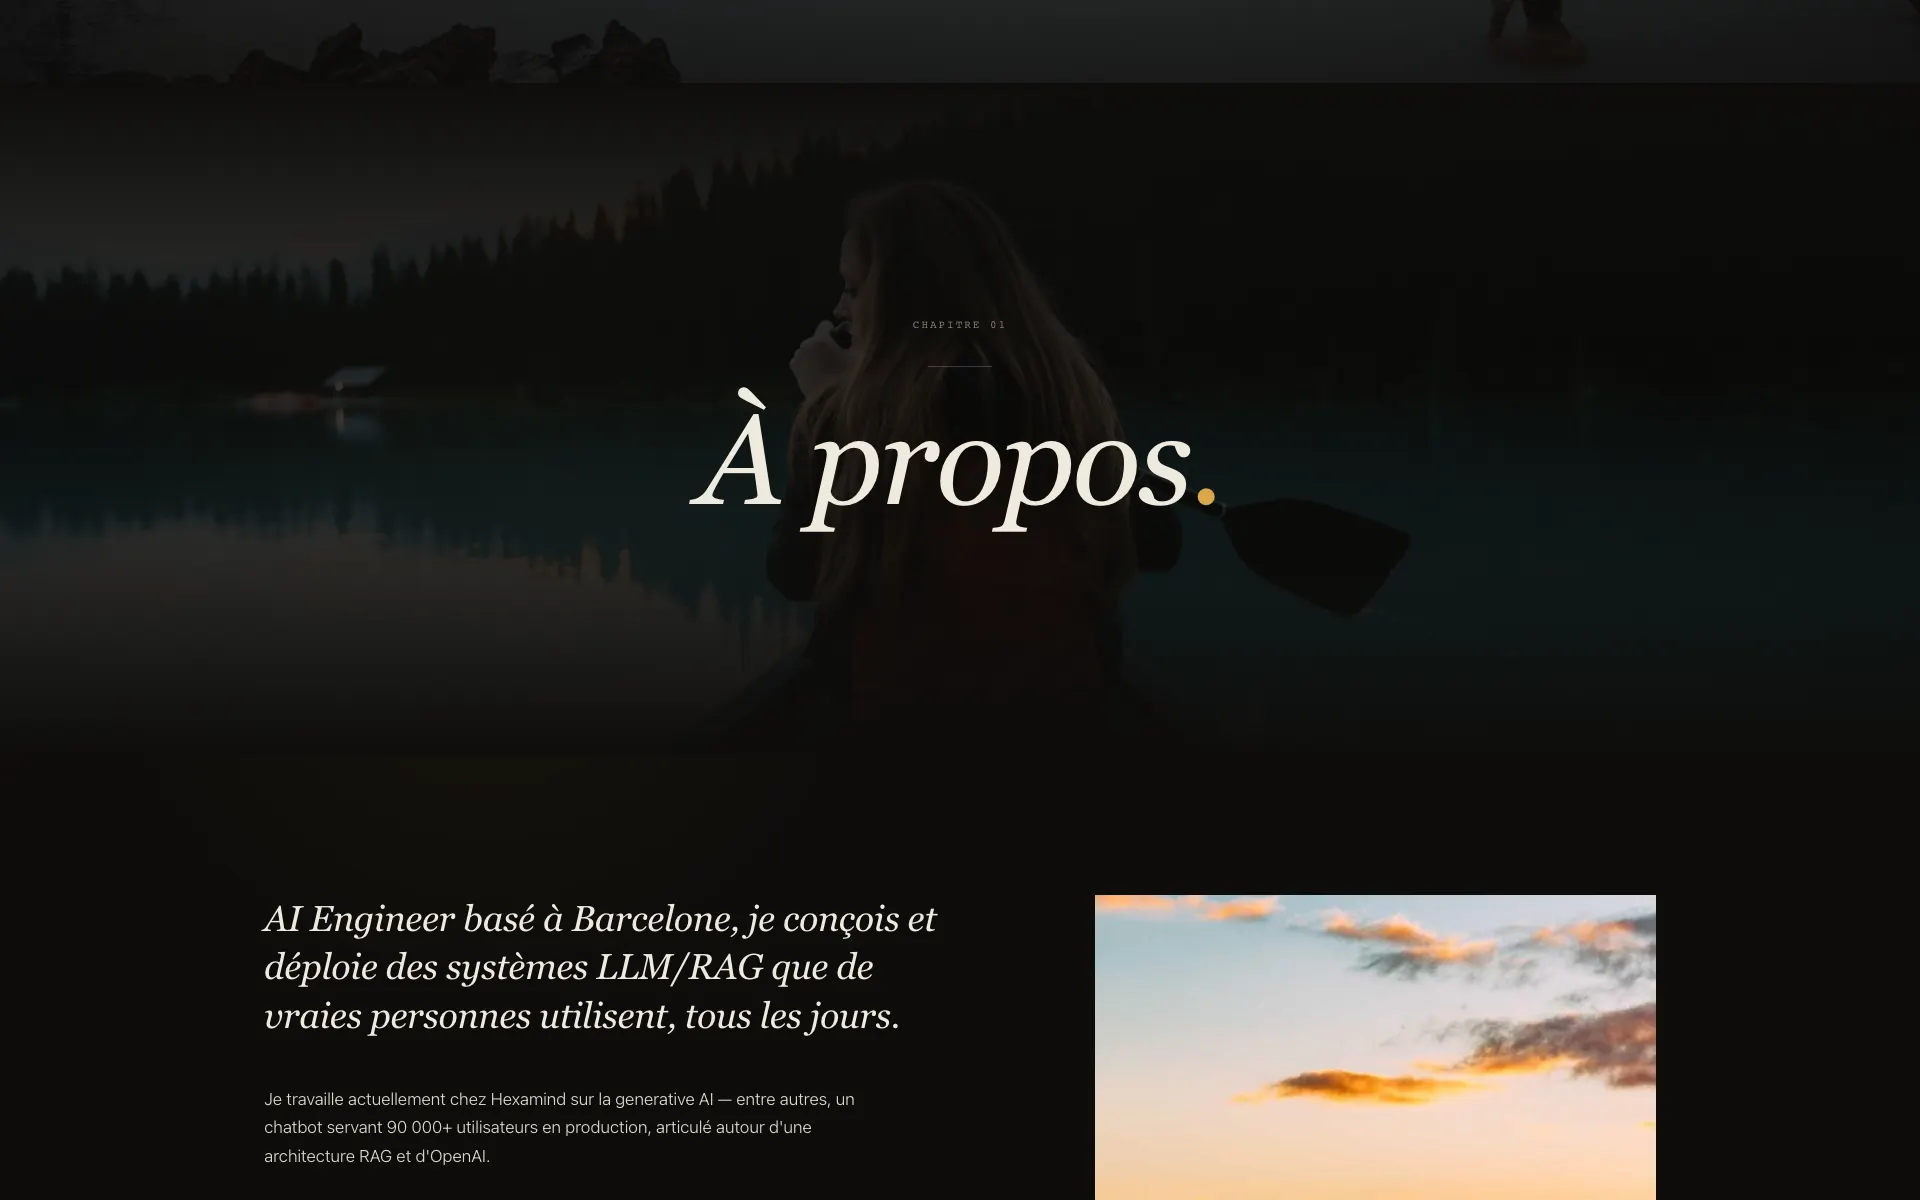
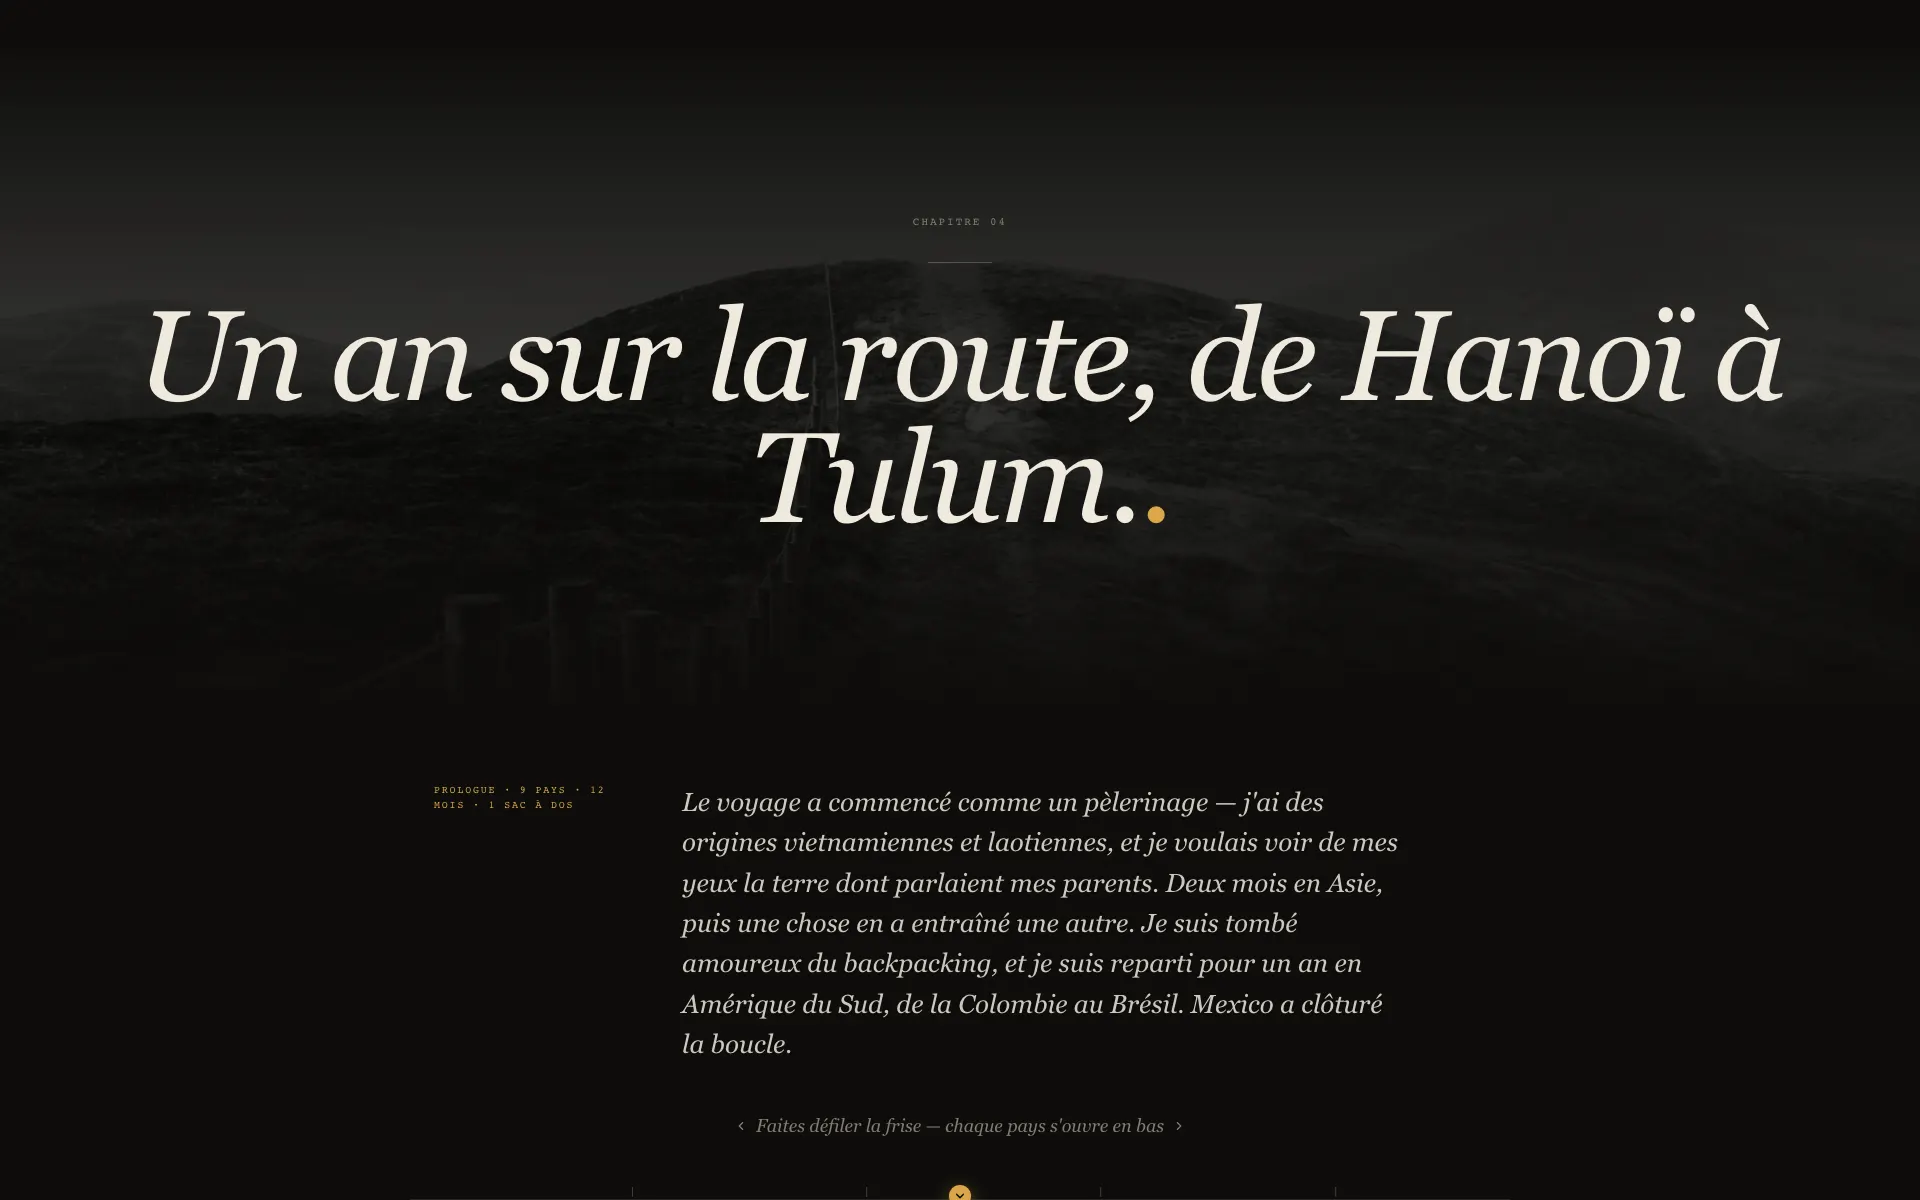
fix(chooser): hard-center curator panel + travel-section previews
- The curator now lives inside a position:fixed wrapper anchored to
  the viewport (translate(-50%,-50%)) while framer-motion only
  animates opacity/scale on the inner panel. This decouples the
  centering transform from the entrance animation so the panel is
  pixel-centered regardless of motion state.
- Capture script targets the #travels section in each variant, so the
  background previews now show the signature voyage frieze (Hanoï,
  Tulum, etc.) — letting the user actually compare the two visual
  languages instead of the bio.
- Stronger framing: gold-tinted border (rgba(217,166,72,.32)),
  four corner crosshairs (+ marks) and 72px gold hairline accents
  top and bottom. Clear "this is a framed selection" affordance.
- Inner shadow + larger drop shadow for more presence on the busy
  travel-photo backgrounds.

diff --git a/src/shared/components/Chooser.css b/src/shared/components/Chooser.css
@@ -168,51 +168,100 @@
   transform: translateX(-0.5px);
 }
 
-/* CURATOR — frosted glass panel, perfectly centered. */
-.chooser-curator {
-  position: absolute;
-  top: 42%;
+/* CURATOR — frosted glass panel, hard-centered to viewport.
+   Outer wrapper handles positioning; inner panel handles framing.
+   This keeps framer-motion's transform on the wrapper from clashing
+   with the centering transform. */
+.chooser-curator-wrap {
+  position: fixed;
+  top: 50%;
   left: 50%;
   transform: translate(-50%, -50%);
   z-index: 20;
   pointer-events: none;
+  width: min(92vw, 620px);
+  display: flex;
+  justify-content: center;
+}
+
+.chooser-curator {
+  position: relative;
+  width: 100%;
   display: flex;
   flex-direction: column;
   align-items: center;
   gap: 0.85rem;
-  width: min(92vw, 620px);
   text-align: center;
   color: #ffffff;
-  padding: 2.75rem 3rem 2.5rem;
-  background: rgba(12, 11, 10, 0.55);
-  backdrop-filter: blur(18px) saturate(130%);
-  -webkit-backdrop-filter: blur(18px) saturate(130%);
-  border: 1px solid rgba(255, 255, 255, 0.1);
-  border-radius: 2px;
+  padding: 3rem 3.25rem 2.75rem;
+  background: rgba(10, 9, 8, 0.62);
+  backdrop-filter: blur(20px) saturate(130%);
+  -webkit-backdrop-filter: blur(20px) saturate(130%);
+  border: 1px solid rgba(217, 166, 72, 0.32);
   box-shadow:
-    0 24px 60px -20px rgba(0, 0, 0, 0.6),
-    0 0 0 1px rgba(0, 0, 0, 0.3) inset;
+    0 30px 80px -24px rgba(0, 0, 0, 0.75),
+    0 0 0 1px rgba(255, 255, 255, 0.04) inset,
+    inset 0 0 60px rgba(0, 0, 0, 0.35);
 }
 
-/* Hairline accents — top and bottom thin gold lines for editorial weight. */
+/* Hairline gold accents — slim editorial flourishes top + bottom. */
 .chooser-curator::before,
 .chooser-curator::after {
   content: "";
   position: absolute;
   left: 50%;
   transform: translateX(-50%);
-  width: 64px;
+  width: 72px;
   height: 1px;
-  background: rgba(217, 166, 72, 0.5);
+  background: rgba(217, 166, 72, 0.7);
 }
 
 .chooser-curator::before {
-  top: 1.2rem;
+  top: 1.1rem;
 }
 
 .chooser-curator::after {
-  bottom: 1.2rem;
+  bottom: 1.1rem;
 }
+
+/* Decorative corner crosshairs — magazine-style frame markers. */
+.chooser-curator__corner {
+  position: absolute;
+  width: 18px;
+  height: 18px;
+  pointer-events: none;
+  color: rgba(217, 166, 72, 0.55);
+}
+
+.chooser-curator__corner::before,
+.chooser-curator__corner::after {
+  content: "";
+  position: absolute;
+  background: currentColor;
+}
+
+.chooser-curator__corner::before {
+  /* horizontal stroke */
+  top: 50%;
+  left: 0;
+  right: 0;
+  height: 1px;
+  transform: translateY(-0.5px);
+}
+
+.chooser-curator__corner::after {
+  /* vertical stroke */
+  top: 0;
+  bottom: 0;
+  left: 50%;
+  width: 1px;
+  transform: translateX(-0.5px);
+}
+
+.chooser-curator__corner--tl { top: -9px; left: -9px; }
+.chooser-curator__corner--tr { top: -9px; right: -9px; }
+.chooser-curator__corner--bl { bottom: -9px; left: -9px; }
+.chooser-curator__corner--br { bottom: -9px; right: -9px; }
 
 .chooser-curator__kicker {
   font-family: "Inter Tight", system-ui, sans-serif;
@@ -323,13 +372,18 @@
   .chooser-half__bottom {
     padding-bottom: 2rem;
   }
-  .chooser-curator {
-    top: 50%;
+  .chooser-curator-wrap {
     width: 88vw;
-    padding: 1.75rem 1.5rem;
+  }
+  .chooser-curator {
+    padding: 2rem 1.5rem 1.75rem;
   }
   .chooser-curator::before,
   .chooser-curator::after {
     width: 48px;
+  }
+  .chooser-curator__corner {
+    width: 14px;
+    height: 14px;
   }
 }

diff --git a/src/shared/components/Chooser.tsx b/src/shared/components/Chooser.tsx
@@ -149,25 +149,32 @@ export function Chooser() {
 
       <div className="chooser-divider" aria-hidden />
 
-      <motion.div
-        className="chooser-curator"
-        initial={{ opacity: 0, y: 14 }}
-        animate={{ opacity: 1, y: 0 }}
-        transition={{ duration: 0.9, ease: [0.22, 1, 0.36, 1], delay: 0.35 }}
-      >
-        <span className="chooser-curator__kicker">{t.kicker}</span>
-        <h1 className="chooser-curator__heading">{t.heading}</h1>
-        <p className="chooser-curator__subtitle">{t.subtitle}</p>
-        <div className="chooser-curator__prompt" aria-hidden>
-          <span className="chooser-curator__prompt-arrow chooser-curator__prompt-arrow--left">
-            ←
-          </span>
-          <span className="chooser-curator__prompt-label">{t.prompt}</span>
-          <span className="chooser-curator__prompt-arrow chooser-curator__prompt-arrow--right">
-            →
-          </span>
-        </div>
-      </motion.div>
+      <div className="chooser-curator-wrap">
+        <motion.div
+          className="chooser-curator"
+          initial={{ opacity: 0, scale: 0.98 }}
+          animate={{ opacity: 1, scale: 1 }}
+          transition={{ duration: 0.9, ease: [0.22, 1, 0.36, 1], delay: 0.35 }}
+        >
+          <span className="chooser-curator__corner chooser-curator__corner--tl" aria-hidden />
+          <span className="chooser-curator__corner chooser-curator__corner--tr" aria-hidden />
+          <span className="chooser-curator__corner chooser-curator__corner--bl" aria-hidden />
+          <span className="chooser-curator__corner chooser-curator__corner--br" aria-hidden />
+
+          <span className="chooser-curator__kicker">{t.kicker}</span>
+          <h1 className="chooser-curator__heading">{t.heading}</h1>
+          <p className="chooser-curator__subtitle">{t.subtitle}</p>
+          <div className="chooser-curator__prompt" aria-hidden>
+            <span className="chooser-curator__prompt-arrow chooser-curator__prompt-arrow--left">
+              ←
+            </span>
+            <span className="chooser-curator__prompt-label">{t.prompt}</span>
+            <span className="chooser-curator__prompt-arrow chooser-curator__prompt-arrow--right">
+              →
+            </span>
+          </div>
+        </motion.div>
+      </div>
     </main>
   );
 }

diff --git a/scripts/capture-chooser-screenshots.ts b/scripts/capture-chooser-screenshots.ts
@@ -16,10 +16,17 @@ async function main() {
     const page = await context.newPage();
     await page.goto(url, { waitUntil: "networkidle", timeout: 30000 });
     await page.waitForTimeout(1500);
-    // Scroll past the Hero ("Salut, je suis Mathieu") so the chooser
-    // background previews show actual content sections (bio, projects).
-    await page.evaluate(() => window.scrollTo(0, 1100));
-    await page.waitForTimeout(800);
+    // Snap the travel timeline section (#travels). This shows the
+    // signature "voyages" frieze of each variant so the chooser
+    // previews actually compare the two visual languages.
+    await page.evaluate(() => {
+      const el = document.getElementById("travels");
+      if (el) {
+        const rect = el.getBoundingClientRect();
+        window.scrollTo({ top: rect.top + window.scrollY - 40, behavior: "auto" });
+      }
+    });
+    await page.waitForTimeout(1500);
     const pngBuffer = await page.screenshot({ fullPage: false, type: "png" });
     await sharp(pngBuffer).webp({ quality: 78 }).toFile(out);
     const sizeKb = Math.round((await stat(out)).size / 1024);
